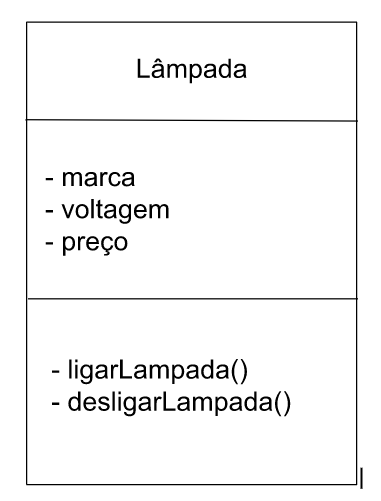
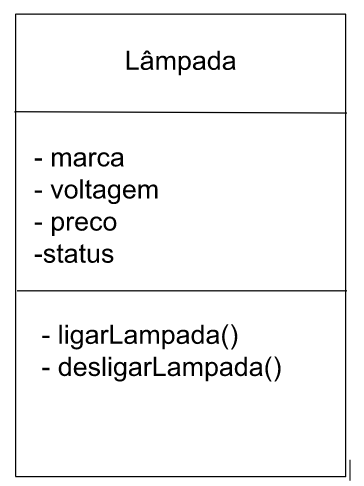
Upload da atividade colaborativa 6.03

diff --git a/BMExercicio04.java b/BMExercicio04.java
@@ -1,0 +1,50 @@
+//public class Lampada;
+public class BMExercicio04{
+    private String marca;
+    private String voltagem;
+    private double preco;
+    private String status = "Desligado";
+
+
+    public void setMarca(String marca){
+        this.marca = marca;
+    }
+
+    public void setVoltagem(String voltagem){
+        this.voltagem = voltagem;
+    }
+
+    public void setPreco(double preco){
+        this.preco = preco;
+    }
+
+
+    public String getMarca(){
+        return this.marca;
+    }
+
+    public String getVoltagem(){
+        return this.voltagem;
+    }
+
+    public double getPreco(){
+        return this.preco;
+    }
+
+
+    public void ligarLampada(){
+        if(status.equals("Desligado")){
+            status = "Ligado";
+        }else{
+            System.out.println("Lâmpada já ligada!");
+        }
+    }
+
+    public void desligarLampada(){
+        if(status.equals("Ligado")){
+            status = "Desligado";
+        }else{
+            System.out.println("Lâmpada já desligada!");
+        }
+    }
+}

diff --git a/BMExercicio05.java b/BMExercicio05.java
@@ -1,0 +1,51 @@
+//public class timeDeFutebol;
+public class BMExercicio05 {
+    private String nome;
+    private int qtPontos;
+    private int posicao;
+
+
+    public void setNome(String nome){
+        this.nome = nome;
+    }
+
+    public void setQtPontos(int qtPontos){
+        this.qtPontos = qtPontos;
+    }
+
+    public void setPosicao(int posicao){
+        this.posicao = posicao;
+    }
+
+
+    public String getNome(){
+        return this.nome;
+    }
+
+    public int getQtPontos(){
+        return this.qtPontos;
+    }
+
+    public int getPosicao(){
+        return this.posicao;
+    }
+
+
+    public void addPontos(){
+        this.qtPontos += 3;
+    }
+
+    public void incrementaPosicao(int qnt){
+        this.posicao += qnt;
+    }
+
+    public void decrementaPosicao(int qnt){
+        this.posicao -= qnt;
+    }
+
+    public void consulta(){
+        System.out.println("TIME: " + this.nome);
+        System.out.println("POSIÇÃO: " + this.posicao);
+        System.out.println("PONTUAÇÃO: " + this.qtPontos);
+    }
+}

diff --git a/BMExercicio03.java b/BMExercicio03.java
@@ -1,13 +1,19 @@
+//public class ContaBancariaSimplificada;
 public class BMExercicio03{
     public static void main(String[] args){
-        System.out.println("O nome do correntista é ");
-        System.out.print("nomeDoCorrentista");
-        System.out.println("O saldo é: ");
-        System.out.print("saldo");
-        if(true){ //contaÉEspecial;
-            System.out.print("A conta é especial");
+        String nomeDoCorrentista = "Antonio Lacerda";
+        Boolean contaEEspecial = true;
+        int saldo = -10;
+
+        System.out.print("O nome do correntista é: ");
+        System.out.println(nomeDoCorrentista);
+        if(contaEEspecial){
+            System.out.println("A conta é especial");
+            if(saldo<0){
+                System.out.println("ALERTA: Seu saldo está negativo!");
+            }
         }else{
-            System.out.print("A conta é comum");
+            System.out.println("A conta é comum");
         }
     }
 }

diff --git a/README.md b/README.md
@@ -7,6 +7,34 @@
 <p>Os dados que devem representar um time de futebol, por exemplo, em um campeonato são: Nome, qt. de Pontos e a posição no campeonato. Os métodos que devem conter uma classe do tipo time de futebol são as responsáveis por somar pontos, incrementar ou diminuir a posição na tabela e consultar as informações do time.</p>
 <img src="./img/BMExercicio02.png"/>
 
+<h2>6. Modifique o método “abreContaSimples” da classe “ContaBancariaSimplificada” de forma que o cliente só possa abrir uma conta com um valor mínimo de R$ 100,00</h2>
+
+```java
+public void abreContaSimples(String nome, double valorInicialConta){
+    const double valorMinimo = 100.00;
+
+    nomeDoCorrentista = nome;
+    saldo = 0.00;
+    contaÉEspecial = false;
+
+    if(valorInicialConta < 100){
+        System.out.println("Você está tentando criar uma conta com um valor abaixo do mínimo que é de R$" + valorMinimo + ". Tente novamente com um valor correto!");
+    }
+}
+```
+
+<h2>7. Identifique e explique o(s) erro(s) na classe abaixo:
+1 class Registro De Eleitor
+2 {
+3 /**
+4 * Declaração dos campos desta classe
+5 */
+6 int tituloDeEleitor; // número do título do eleitor
+7 String nome; // nome do eleitor
+8 short zonaEleitoral; // número da zona eleitoral
+9 } // fim da classe</h2>
+<p>O Erro principal deste código é que a classe foi nomeada de forma incorreta. para nomeação de classe é preciso que apenas um nome seja indicado. A forma correta de se utilizar, uma boa prática é utilizar o sistema de camelCase. Corrigindo: RegistroDeEleitor;</p>
+
 
 
 
